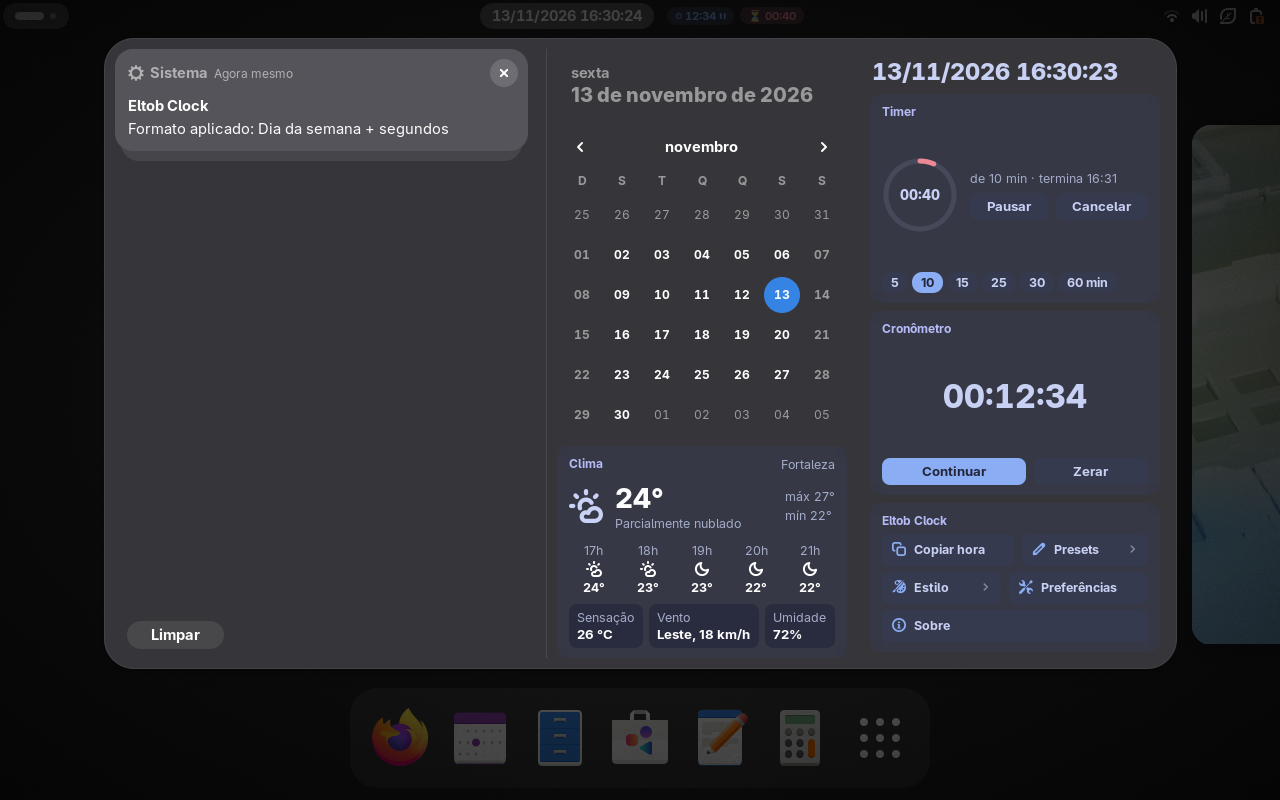
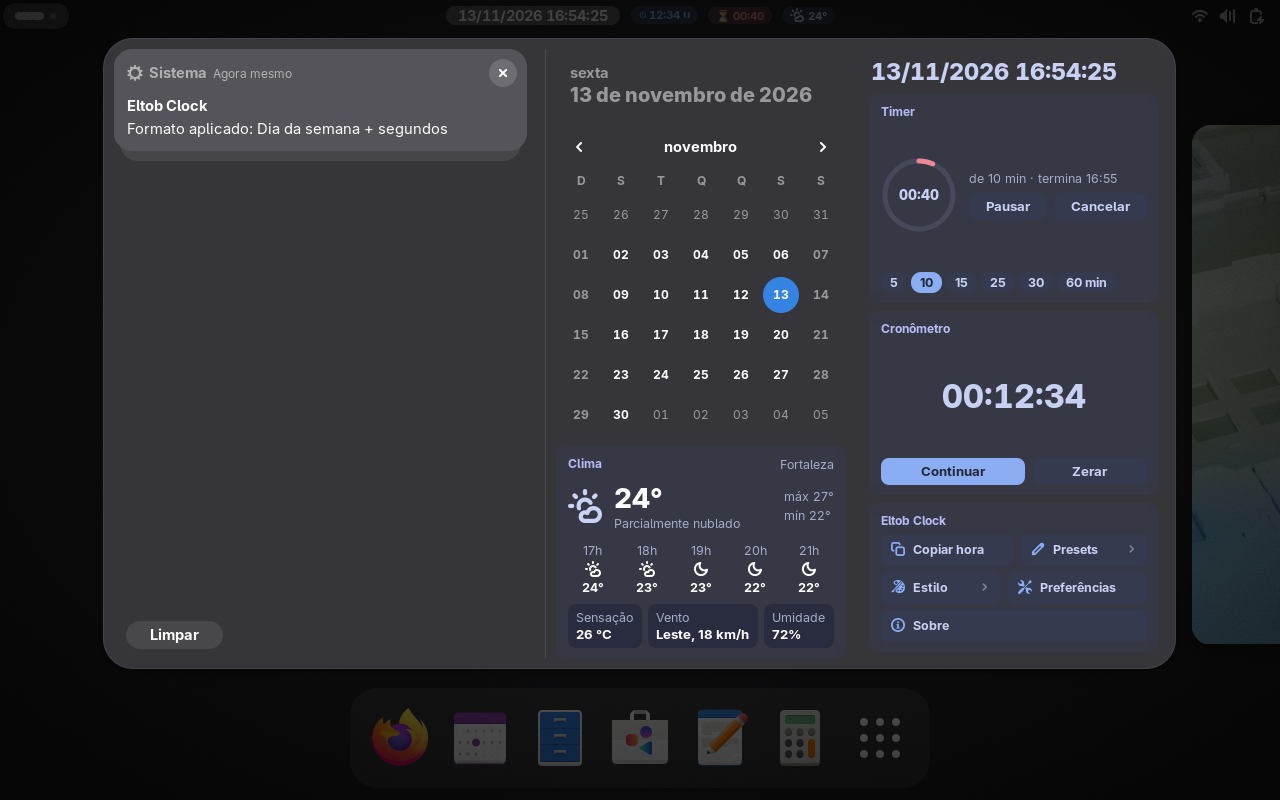
docs: v1.1.0 (README, CHANGELOG, capturas novas e devtrack)

diff --git a/README.md b/README.md
@@ -1,8 +1,8 @@
 # Eltob Clock
 
-Relógio da barra do GNOME com **formato livre**, mais **timer**, **cronômetro** e **clima** dentro do popup do relógio. Visual da família Eltob Indicator (Catppuccin Macchiato, acento azul).
+Relógio da barra do GNOME **configurável**: você escolhe o formato e a composição do que fica na barra e o layout do popup, com **timer**, **cronômetro** e **clima**. Visual da família Eltob Indicator (Catppuccin Macchiato, acento azul).
 
-Fork do [Numeric Clock](https://github.com/nickotmazgin/Linux-Numeric-Date-And-Clock) de Nick Otmazgin (MIT). O núcleo que troca o texto do relógio vem dele; o popup, o timer, o cronômetro, o clima e o visual são novos.
+Fork do [Numeric Clock](https://github.com/nickotmazgin/Linux-Numeric-Date-And-Clock) de Nick Otmazgin (MIT). O núcleo que troca o texto do relógio vem dele; o popup, o timer, o cronômetro, o clima, o layout editável e o visual são novos.
 
 ![Popup do Eltob Clock](docs/popup.png)
 
@@ -10,13 +10,24 @@ Fork do [Numeric Clock](https://github.com/nickotmazgin/Linux-Numeric-Date-And-C
 
 ## O que faz
 
-- **Formato livre (strftime)** no relógio da barra, com prévia ao vivo e 8 presets. Tique exato na virada do segundo.
-- **Popup em 3 colunas:** notificações, calendário e clima, e uma coluna nova com a hora formatada, timer, cronômetro e ações. Os eventos e os relógios mundiais nativos ficam escondidos; ao desativar a extensão eles voltam.
+- **Barra por blocos:** hora ou data (cada uma com formato strftime próprio), timer, cronômetro, clima e texto livre, na ordem que você quiser, cada bloco como texto ou pílula colorida. Se algum bloco mostra segundos, o relógio anda a cada segundo.
+- **Popup em 3 colunas:** notificações, calendário e clima, e uma coluna nova com hora formatada, timer, cronômetro e ações. Os eventos e relógios mundiais nativos ficam escondidos (voltam ao desativar a extensão).
+- **Layout do popup editável:** cada cartão (hora, timer, cronômetro, clima, ações) pode ficar abaixo do calendário, na coluna da direita ou escondido, em tamanho normal ou compacto, na ordem que você escolher.
+- **Transições suaves:** pílulas, listas que abrem, timer e clima aparecem e crescem com animação, e o popup acompanha. Respeita a opção de animações do GNOME.
 - **Timer:** 5, 10, 15, 25, 30 e 60 min, com anel de progresso (verde, amarelo abaixo de 25 %, vermelho abaixo de 10 %), pausar, retomar e cancelar. Ao terminar: notificação e som do sistema.
 - **Cronômetro:** iniciar, pausar, continuar e zerar.
-- **Pílulas na barra** ao lado da hora: timer, cronômetro e temperatura. Só aparecem quando há o que mostrar.
-- **Clima:** temperatura, condição, máx/mín, previsão por hora, sensação, vento e umidade. Usa o serviço de clima do próprio GNOME (libgweather) e a localização automática (GeoClue).
-- **Ações:** copiar hora, presets de formato, estilo (Padrão, Claro, Escuro), preferências e sobre.
+- **Clima:** temperatura, condição, máx/mín, previsão por hora, sensação, vento e umidade, pelo serviço de clima do próprio GNOME (libgweather) e localização automática (GeoClue).
+- **Formato livre (strftime)** com prévia ao vivo e 8 presets; tique exato na virada do segundo.
+
+### Editor nas preferências
+
+| Barra | Popup |
+|---|---|
+| ![Página Barra](docs/prefs-barra.png) | ![Página Popup](docs/prefs-popup.png) |
+
+Layout personalizado (barra com blocos próprios e cartões compactos):
+
+![Layout personalizado](docs/popup-personalizado.png)
 
 ## Requisitos
 
@@ -42,10 +53,12 @@ No Wayland, saia e entre na sessão para o GNOME carregar a extensão. Ela **sub
 | `./tools/build.sh` | gera o zip em `dist/` |
 | `./tools/validate.sh` | confere o zip e o `metadata.json` |
 | `node tools/tests/timerlogic.test.mjs` | testa a lógica do timer e do cronômetro |
+| `node tools/tests/layoutlogic.test.mjs` | testa as regras do layout (blocos da barra e cartões do popup) |
+| `EC_SHOT_DIR=/pasta ./tools/prefs-shots.sh` | salva capturas das páginas Barra e Popup das preferências |
 | `./tools/prefs-test.sh` | testa a janela de preferências (gjs) |
 | `./tools/nested-smoke-test.sh` | carrega a extensão num GNOME Shell isolado (`--headless`) e roda os testes de interface; com `EC_SHOT_DIR=/pasta` também salva capturas de tela |
 
-Estrutura: `src/extension.js` (texto da barra e injeção no popup), `popup.js` (coluna nova), `weatherview.js` (clima), `clockstate.js` e `timerlogic.js` (timer e cronômetro), `barpills.js` (pílulas), `prefs.js` e `presets.js`.
+Estrutura: `src/extension.js` (texto da barra e injeção no popup), `popup.js` (cartões e montagem das colunas), `barcomposer.js` (blocos da barra), `layoutlogic.js` (regras do layout), `labs.js` (editor nas preferências), `anim.js` (transições), `weatherview.js` (clima), `clockstate.js` e `timerlogic.js` (timer e cronômetro), `prefs.js` e `presets.js`.
 
 ## Privacidade
 

diff --git a/CHANGELOG.md b/CHANGELOG.md
@@ -1,5 +1,17 @@
 # Changelog
 
+## v1.1.0 — 2026-11-13
+
+**Barra e popup configuráveis, com transições suaves.**
+
+- **Barra por blocos:** hora ou data com formato próprio, timer, cronômetro, clima e texto livre, cada um em texto ou pílula, na ordem escolhida. Segundos em qualquer bloco fazem o relógio andar a cada segundo.
+- **Layout do popup editável:** mostrar, esconder, ordenar, mover entre a coluna do meio e a da direita e escolher tamanho normal ou compacto para cada cartão.
+- **Editor nas preferências:** páginas **Barra** (com prévia ao vivo) e **Popup**, com botões para mover, esconder, remover e restaurar o padrão.
+- **Transições suaves:** pílulas da barra, listas de presets e estilos, controles do timer e conteúdo do clima aparecem e somem com animação; o popup acompanha. Respeita "reduzir animações" do GNOME.
+- Novas opções no GSettings: `bar-layout`, `popup-col2` e `popup-col3`. Saíram `bar-pills`, `weather-enabled` e `weather-bar-pill` (viraram parte do layout; layout padrão = comportamento da v1.0).
+- Testes: layout (13) e timer (9) em node, preferências com o editor (16 verificações) e smoke test no GNOME 50 isolado com blocos, layout, tamanhos e animações. Novo `tools/prefs-shots.sh`.
+- Corrigido: aviso do Clutter ao desligar o shell com a extensão ativa.
+
 ## v1.0.1 — 2026-11-13
 
 - **Removido:** o botão "Apoiar autor" do popup e o link de doação das preferências. O crédito ao autor original continua no README, no LICENSE e na página Sobre.

diff --git a/EltobClockSecondBrain/devtrack/2026-11-13.md b/EltobClockSecondBrain/devtrack/2026-11-13.md
@@ -41,3 +41,8 @@
 Pedido: (1) escolher formato E composicao do que fica na barra, como no laboratorio do Nitro; (2) popup configuravel (mostrar/ocultar/ordenar/tamanho dos cartoes); (3) transicoes suaves quando popup/cartoes mudam de tamanho.
 Modelo: bar-layout (as) com blocos "tipo|estilo|payload" (time, timer, stopwatch, weather, text); popup-col2 / popup-col3 (as) com "id|tamanho" (clock, timer, stopwatch, weather, actions). Logica pura em src/layoutlogic.js (testes node). Animacoes em src/anim.js (respeita enable_animations). Editor nas prefs em src/labs.js.
 Branch: feat/layout-editavel (worktree .worktrees/layout-editavel).
+
+## v1.1.0 FECHAMENTO
+- Feito: bar-layout (compositor em barcomposer.js, barpills.js removido), popup-col2/col3 (PopupLayout em popup.js; cartoes normal/compacto), anim.js (revealV/H, collapseV/H, fadeIn, setShown; respeita enable_animations), labs.js (paginas Barra e Popup com previa), layoutlogic.js (+13 testes node). Smoke test headless cobre blocos, layout, tamanhos e animacoes; prefs-test cobre o editor; prefs-shots.sh gera capturas.
+- Diferenca para o Nitro: sem arrastar e soltar (botoes subir/descer/mover/esconder) e so 2 tamanhos (normal/compacto). Ideia futura: drag and drop e mais tamanhos.
+- Pendente do dono: ver ao vivo apos sair e entrar na sessao.
